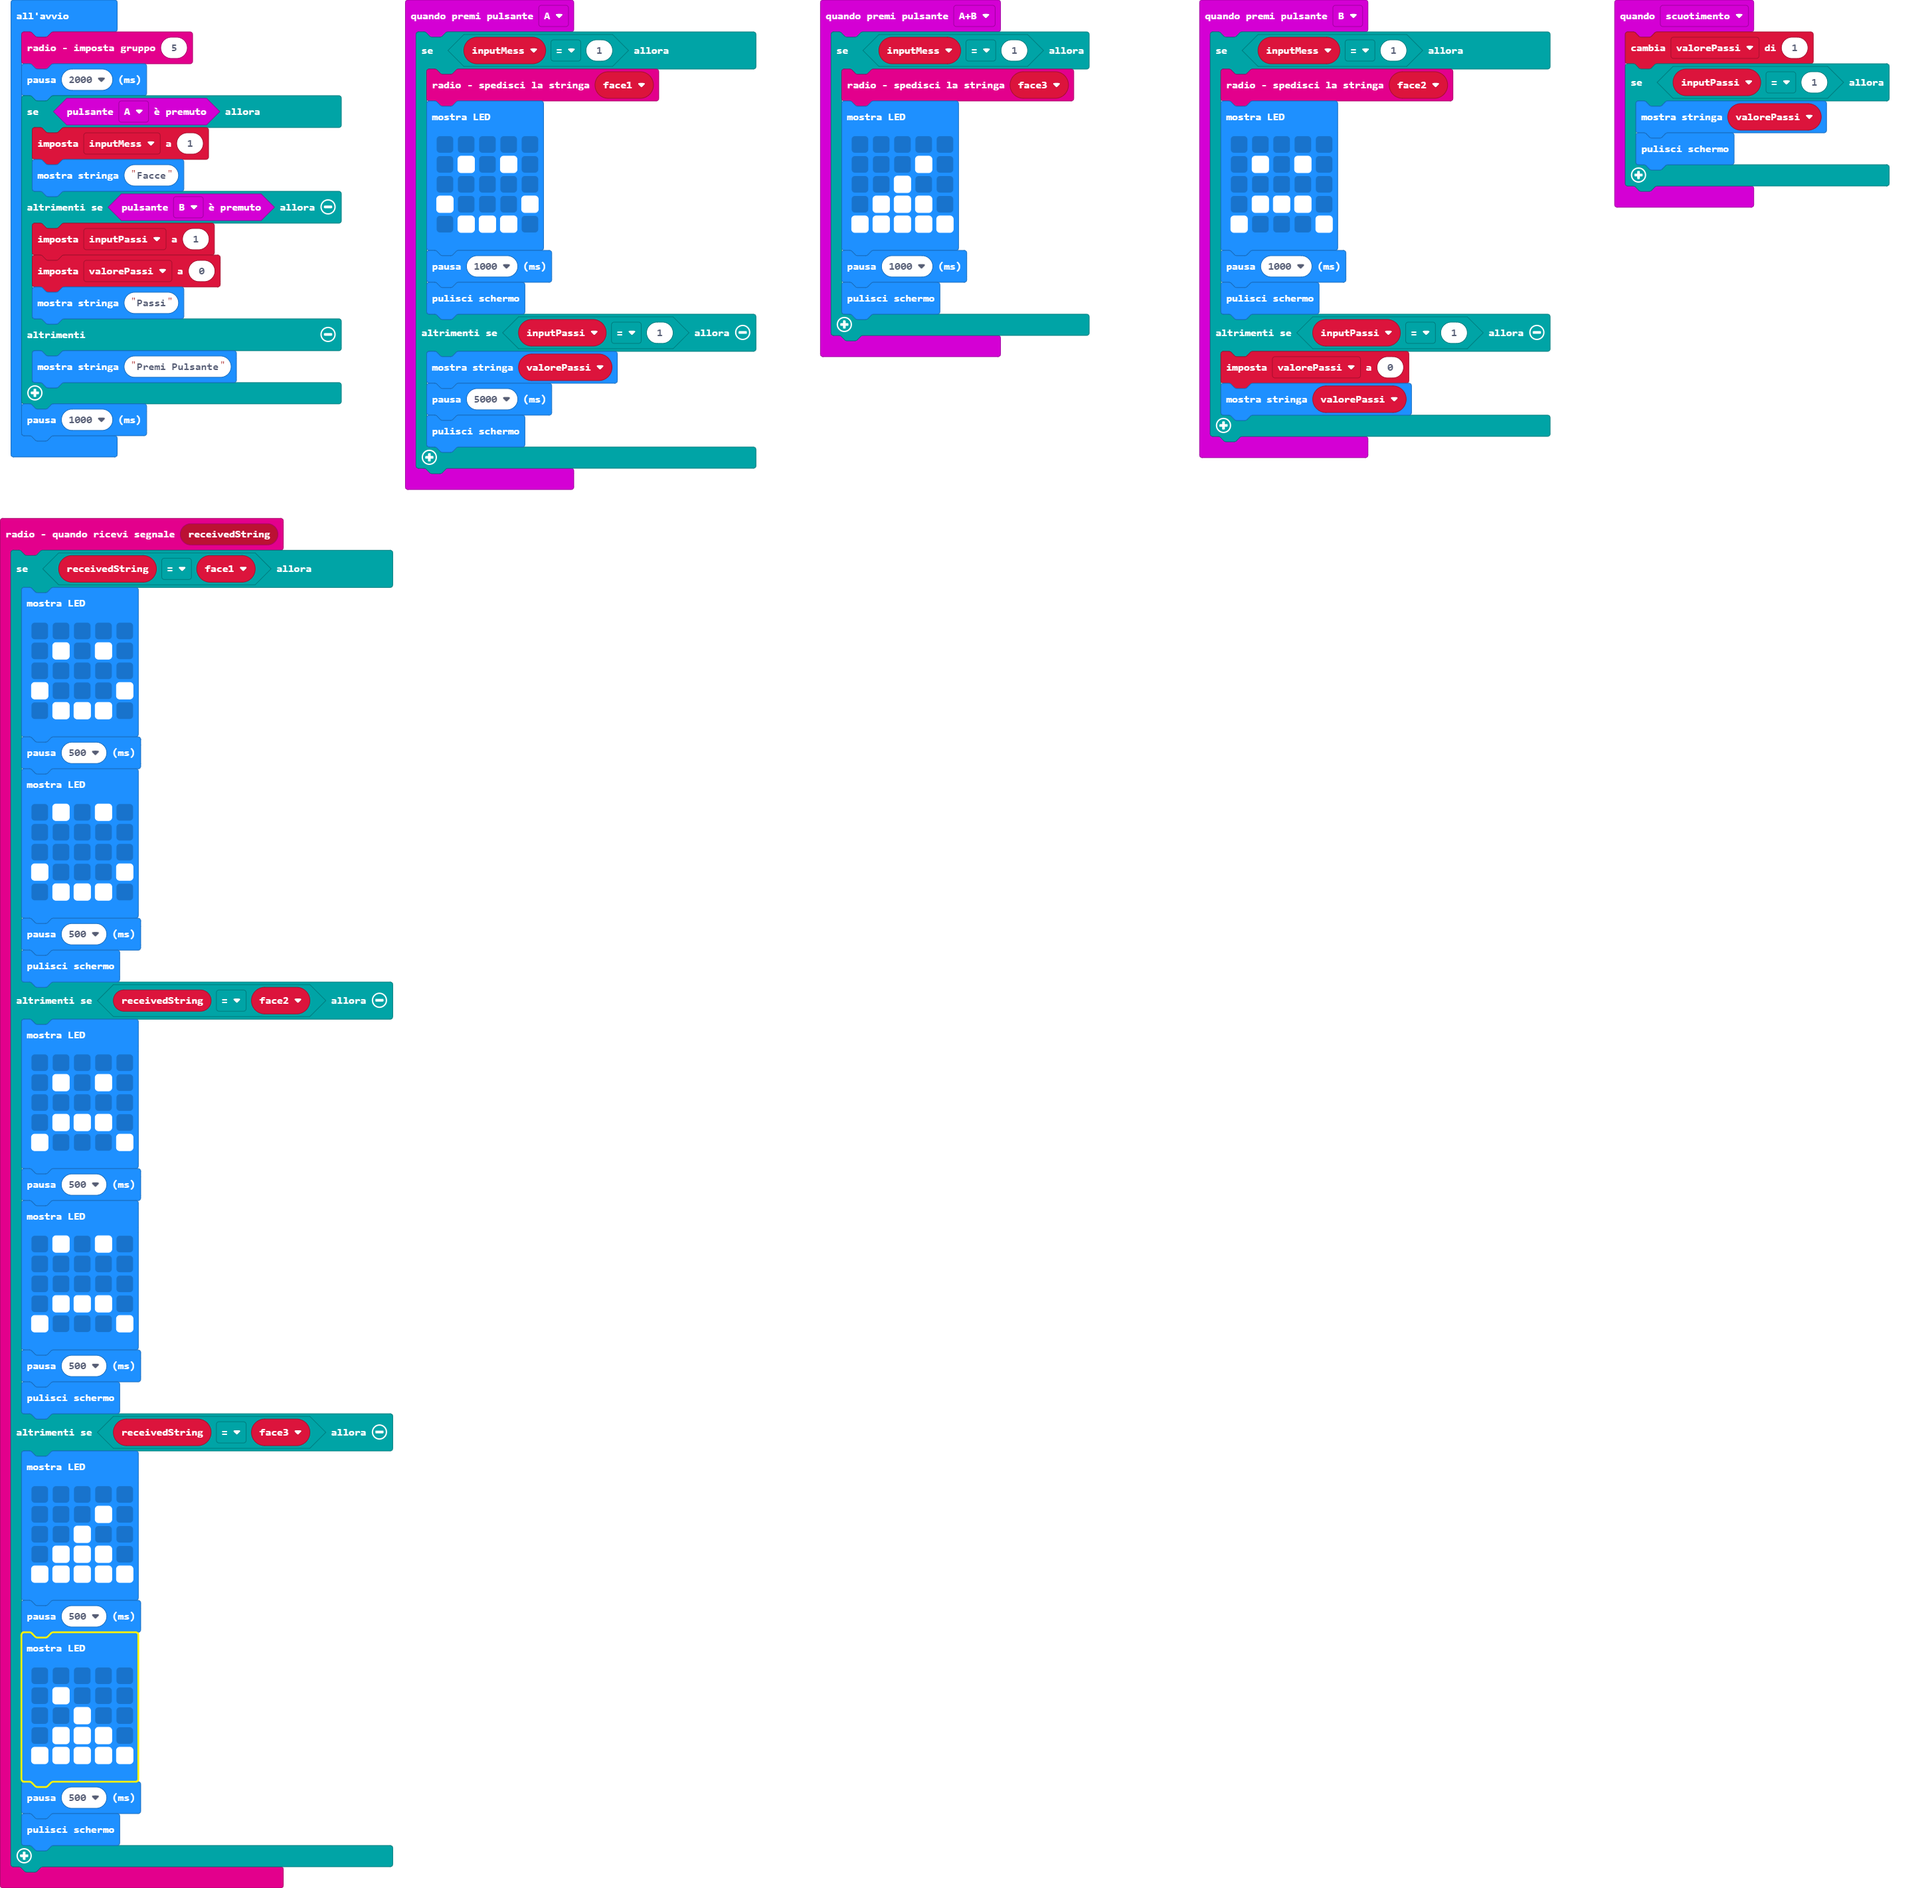
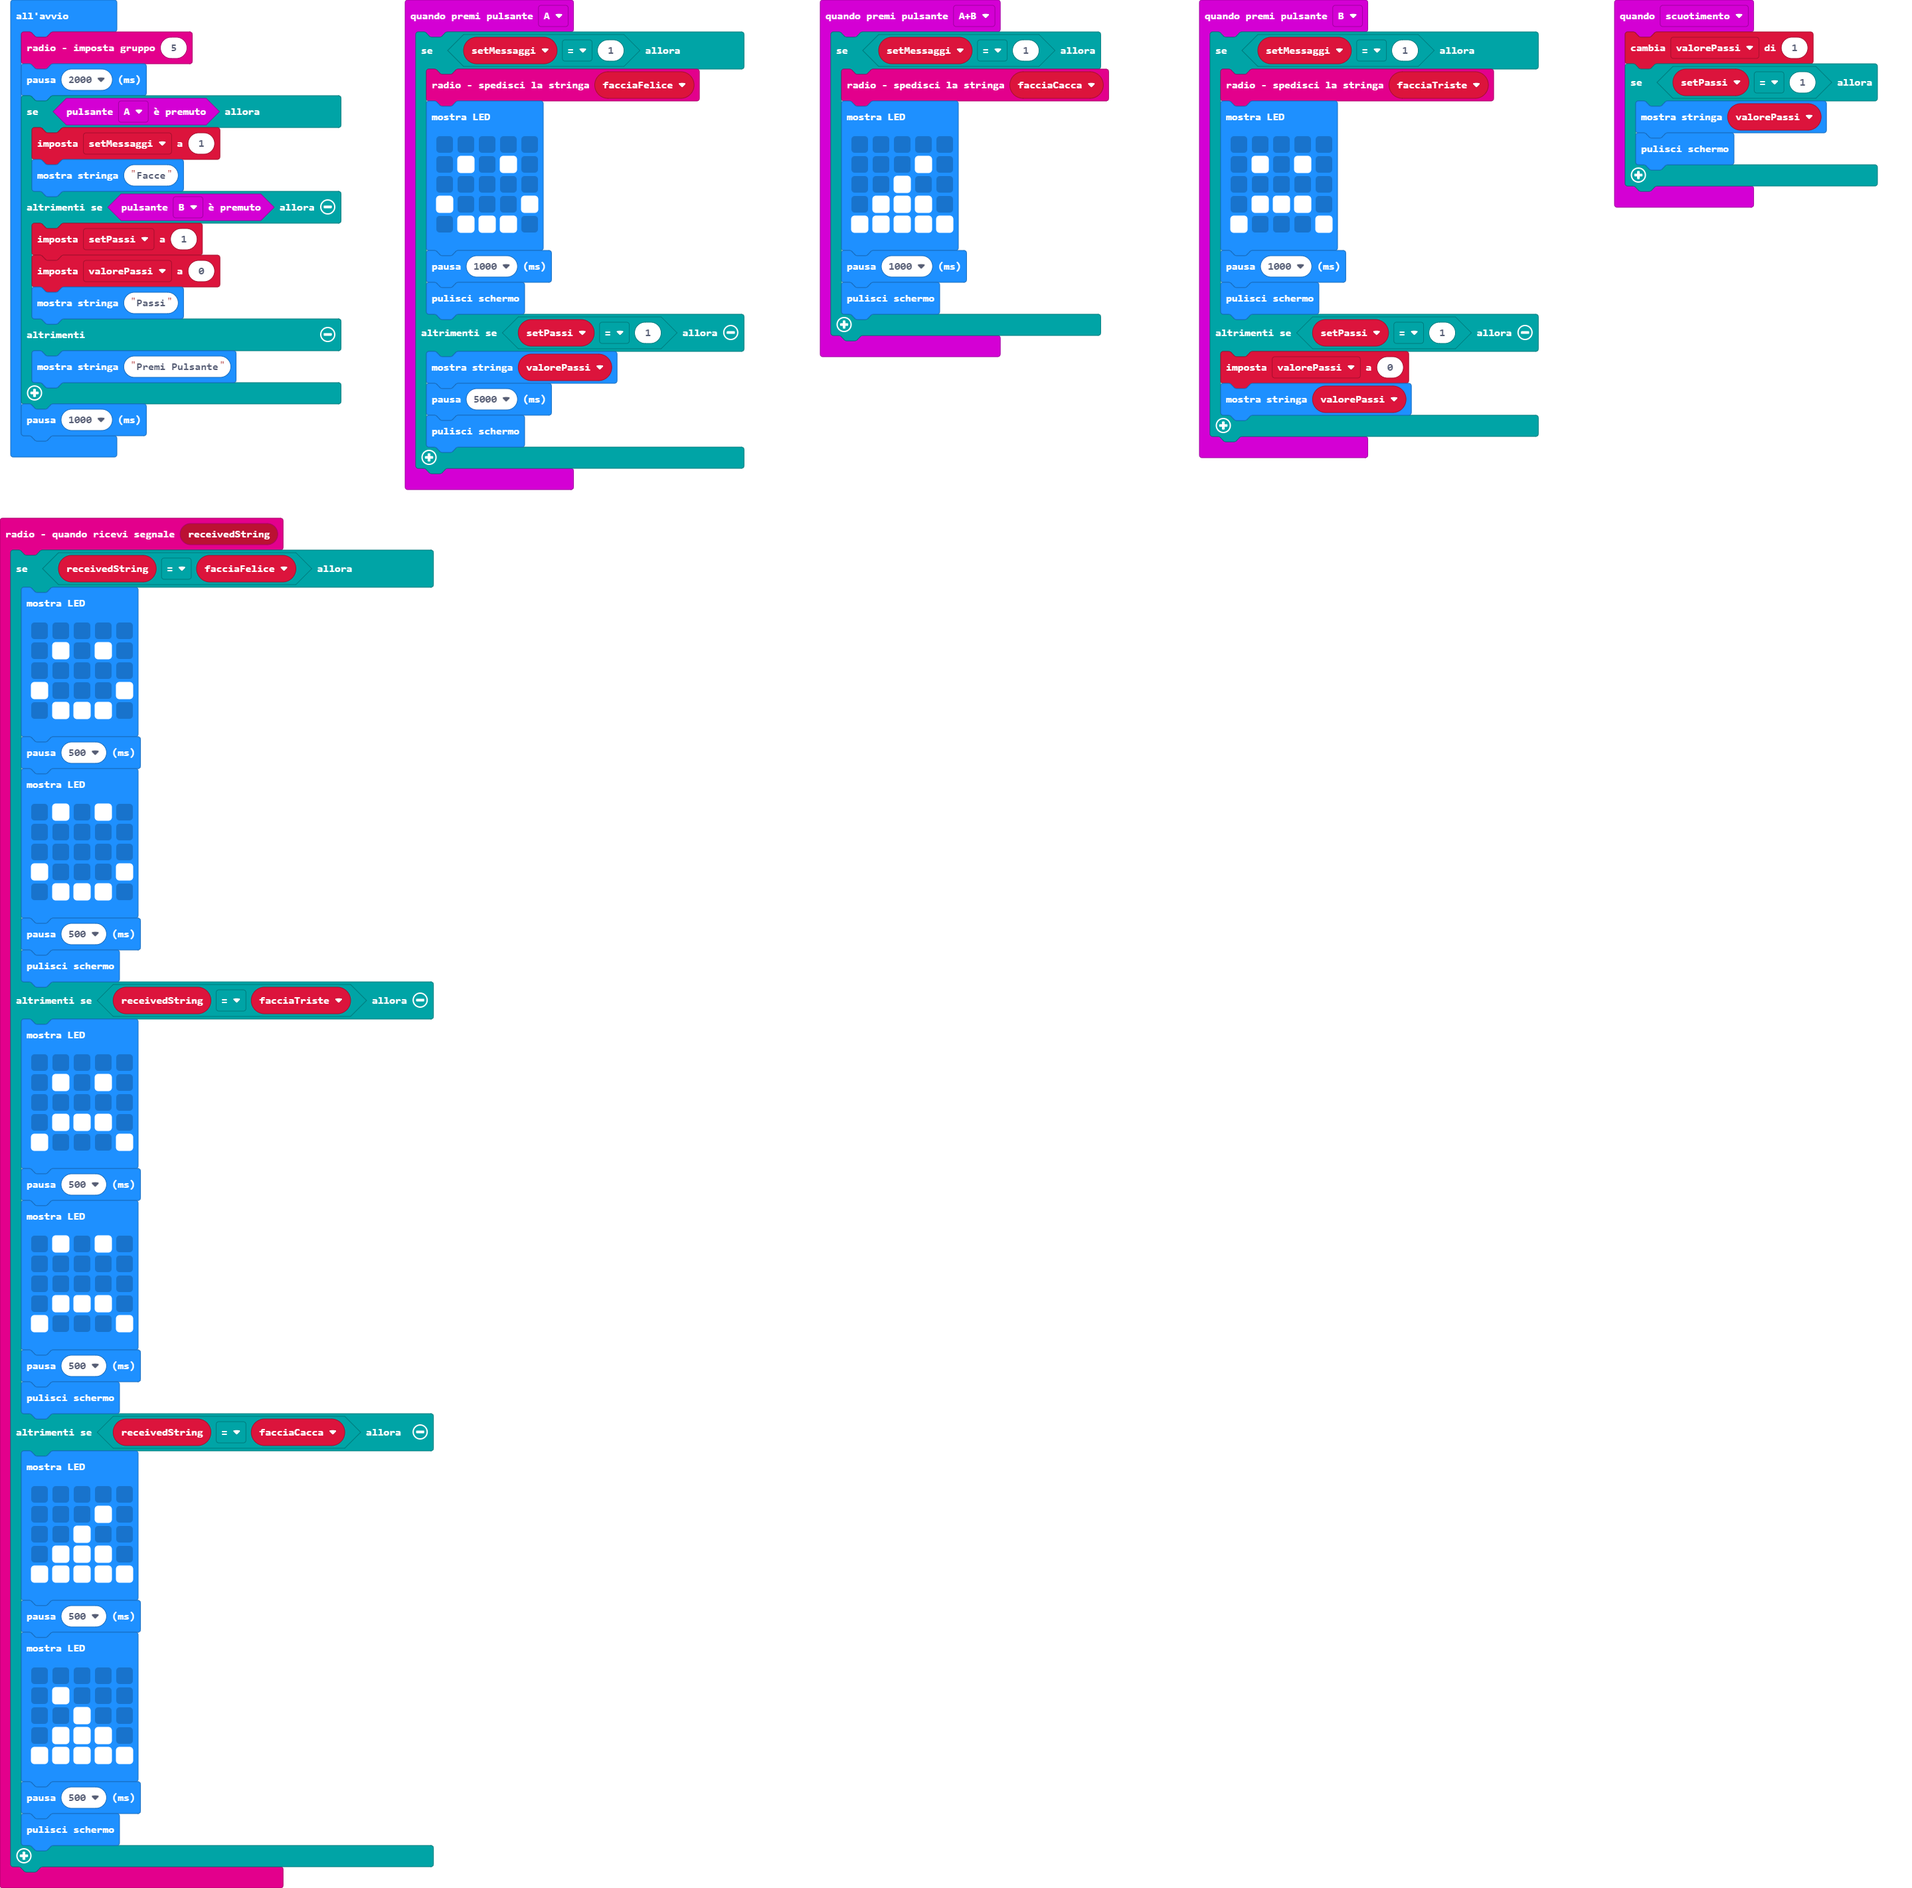
Aggiorna main.blocks, main.ts

diff --git a/main.ts b/main.ts
@@ -1,6 +1,6 @@
 input.onButtonPressed(Button.A, function () {
-    if (inputMess == 1) {
-        radio.sendString("" + (face1))
+    if (setMessaggi == 1) {
+        radio.sendString("" + (facciaFelice))
         basic.showLeds(`
             . . . . .
             . # . # .
@@ -10,7 +10,7 @@ input.onButtonPressed(Button.A, function () {
             `)
         basic.pause(1000)
         basic.clearScreen()
-    } else if (inputPassi == 1) {
+    } else if (setPassi == 1) {
         basic.showString("" + (valorePassi))
         basic.pause(5000)
         basic.clearScreen()
@@ -18,14 +18,14 @@ input.onButtonPressed(Button.A, function () {
 })
 input.onGesture(Gesture.Shake, function () {
     valorePassi += 1
-    if (inputPassi == 1) {
+    if (setPassi == 1) {
         basic.showString("" + (valorePassi))
         basic.clearScreen()
     }
 })
 input.onButtonPressed(Button.AB, function () {
-    if (inputMess == 1) {
-        radio.sendString("" + (face3))
+    if (setMessaggi == 1) {
+        radio.sendString("" + (facciaCacca))
         basic.showLeds(`
             . . . . .
             . . . # .
@@ -38,7 +38,7 @@ input.onButtonPressed(Button.AB, function () {
     }
 })
 radio.onReceivedString(function (receivedString) {
-    if (receivedString == face1) {
+    if (receivedString == facciaFelice) {
         basic.showLeds(`
             . . . . .
             . # . # .
@@ -56,7 +56,7 @@ radio.onReceivedString(function (receivedString) {
             `)
         basic.pause(500)
         basic.clearScreen()
-    } else if (receivedString == face2) {
+    } else if (receivedString == facciaTriste) {
         basic.showLeds(`
             . . . . .
             . # . # .
@@ -74,7 +74,7 @@ radio.onReceivedString(function (receivedString) {
             `)
         basic.pause(500)
         basic.clearScreen()
-    } else if (receivedString == face3) {
+    } else if (receivedString == facciaCacca) {
         basic.showLeds(`
             . . . . .
             . . . # .
@@ -95,8 +95,8 @@ radio.onReceivedString(function (receivedString) {
     }
 })
 input.onButtonPressed(Button.B, function () {
-    if (inputMess == 1) {
-        radio.sendString("" + (face2))
+    if (setMessaggi == 1) {
+        radio.sendString("" + (facciaTriste))
         basic.showLeds(`
             . . . . .
             . # . # .
@@ -106,24 +106,24 @@ input.onButtonPressed(Button.B, function () {
             `)
         basic.pause(1000)
         basic.clearScreen()
-    } else if (inputPassi == 1) {
+    } else if (setPassi == 1) {
         valorePassi = 0
         basic.showString("" + (valorePassi))
     }
 })
-let face2 = ""
-let face3 = ""
-let face1 = ""
+let facciaTriste = ""
+let facciaCacca = ""
+let facciaFelice = ""
 let valorePassi = 0
-let inputPassi = 0
-let inputMess = 0
+let setPassi = 0
+let setMessaggi = 0
 radio.setGroup(5)
 basic.pause(2000)
 if (input.buttonIsPressed(Button.A)) {
-    inputMess = 1
+    setMessaggi = 1
     basic.showString("Facce")
 } else if (input.buttonIsPressed(Button.B)) {
-    inputPassi = 1
+    setPassi = 1
     valorePassi = 0
     basic.showString("Passi")
 } else {
